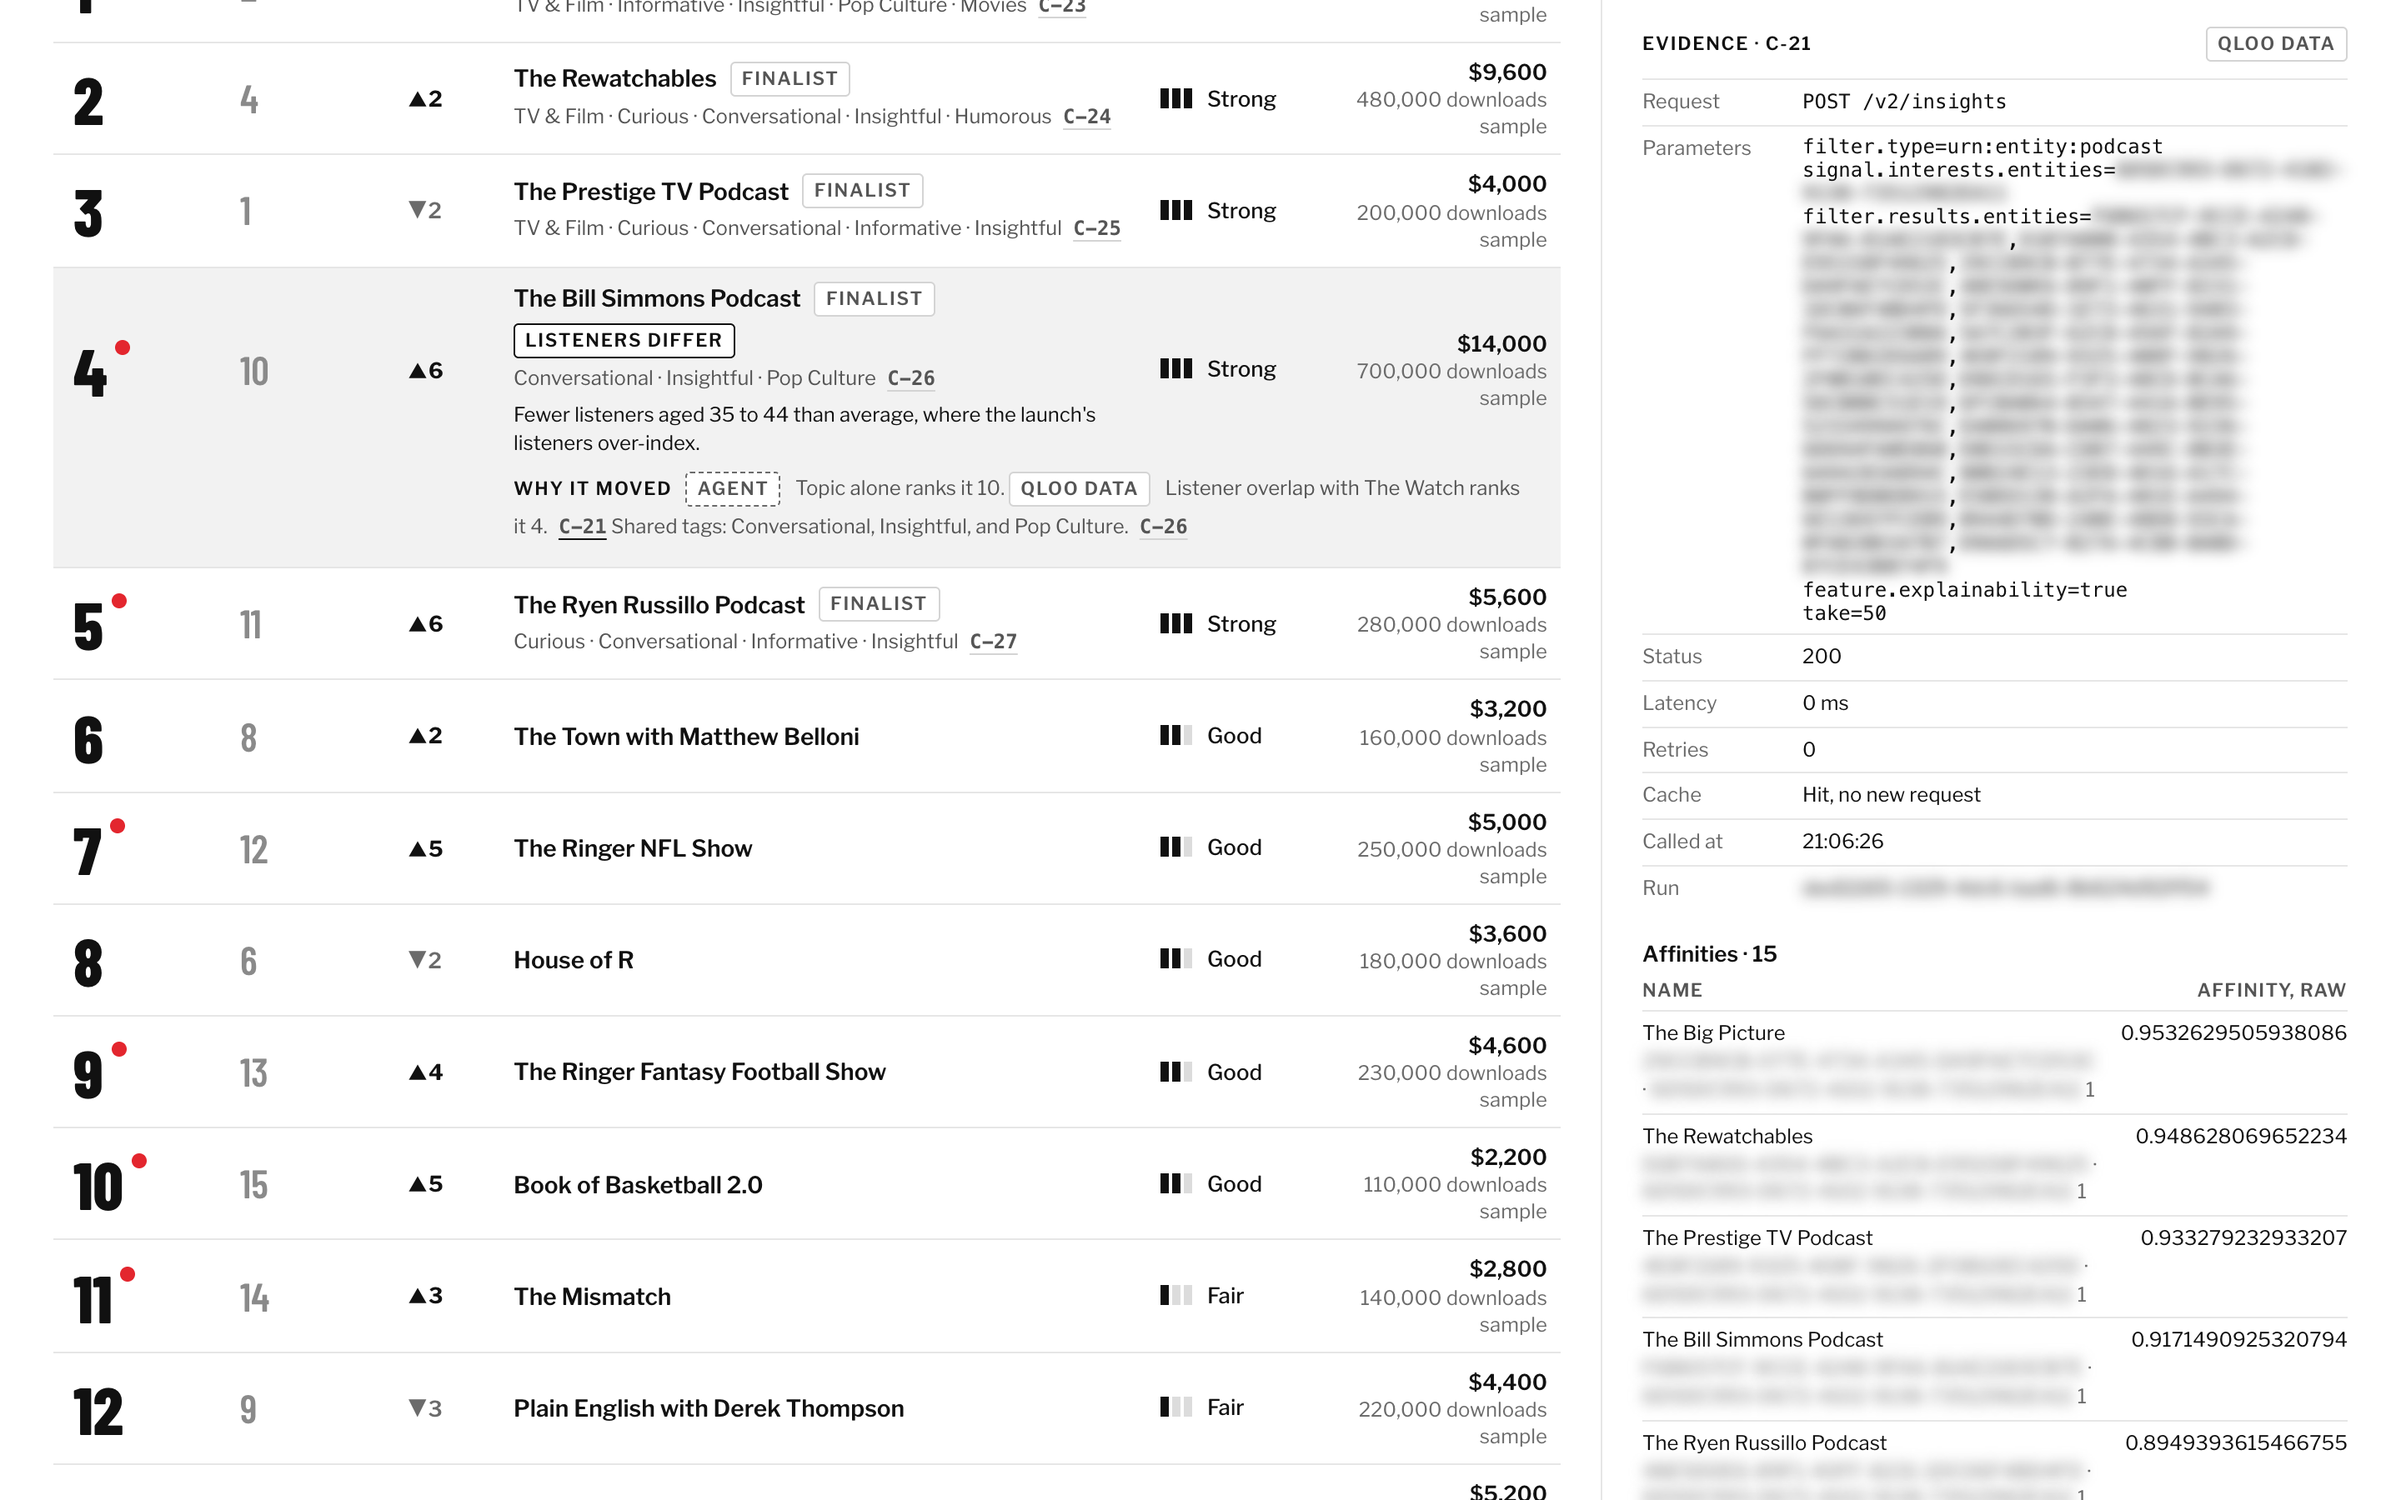
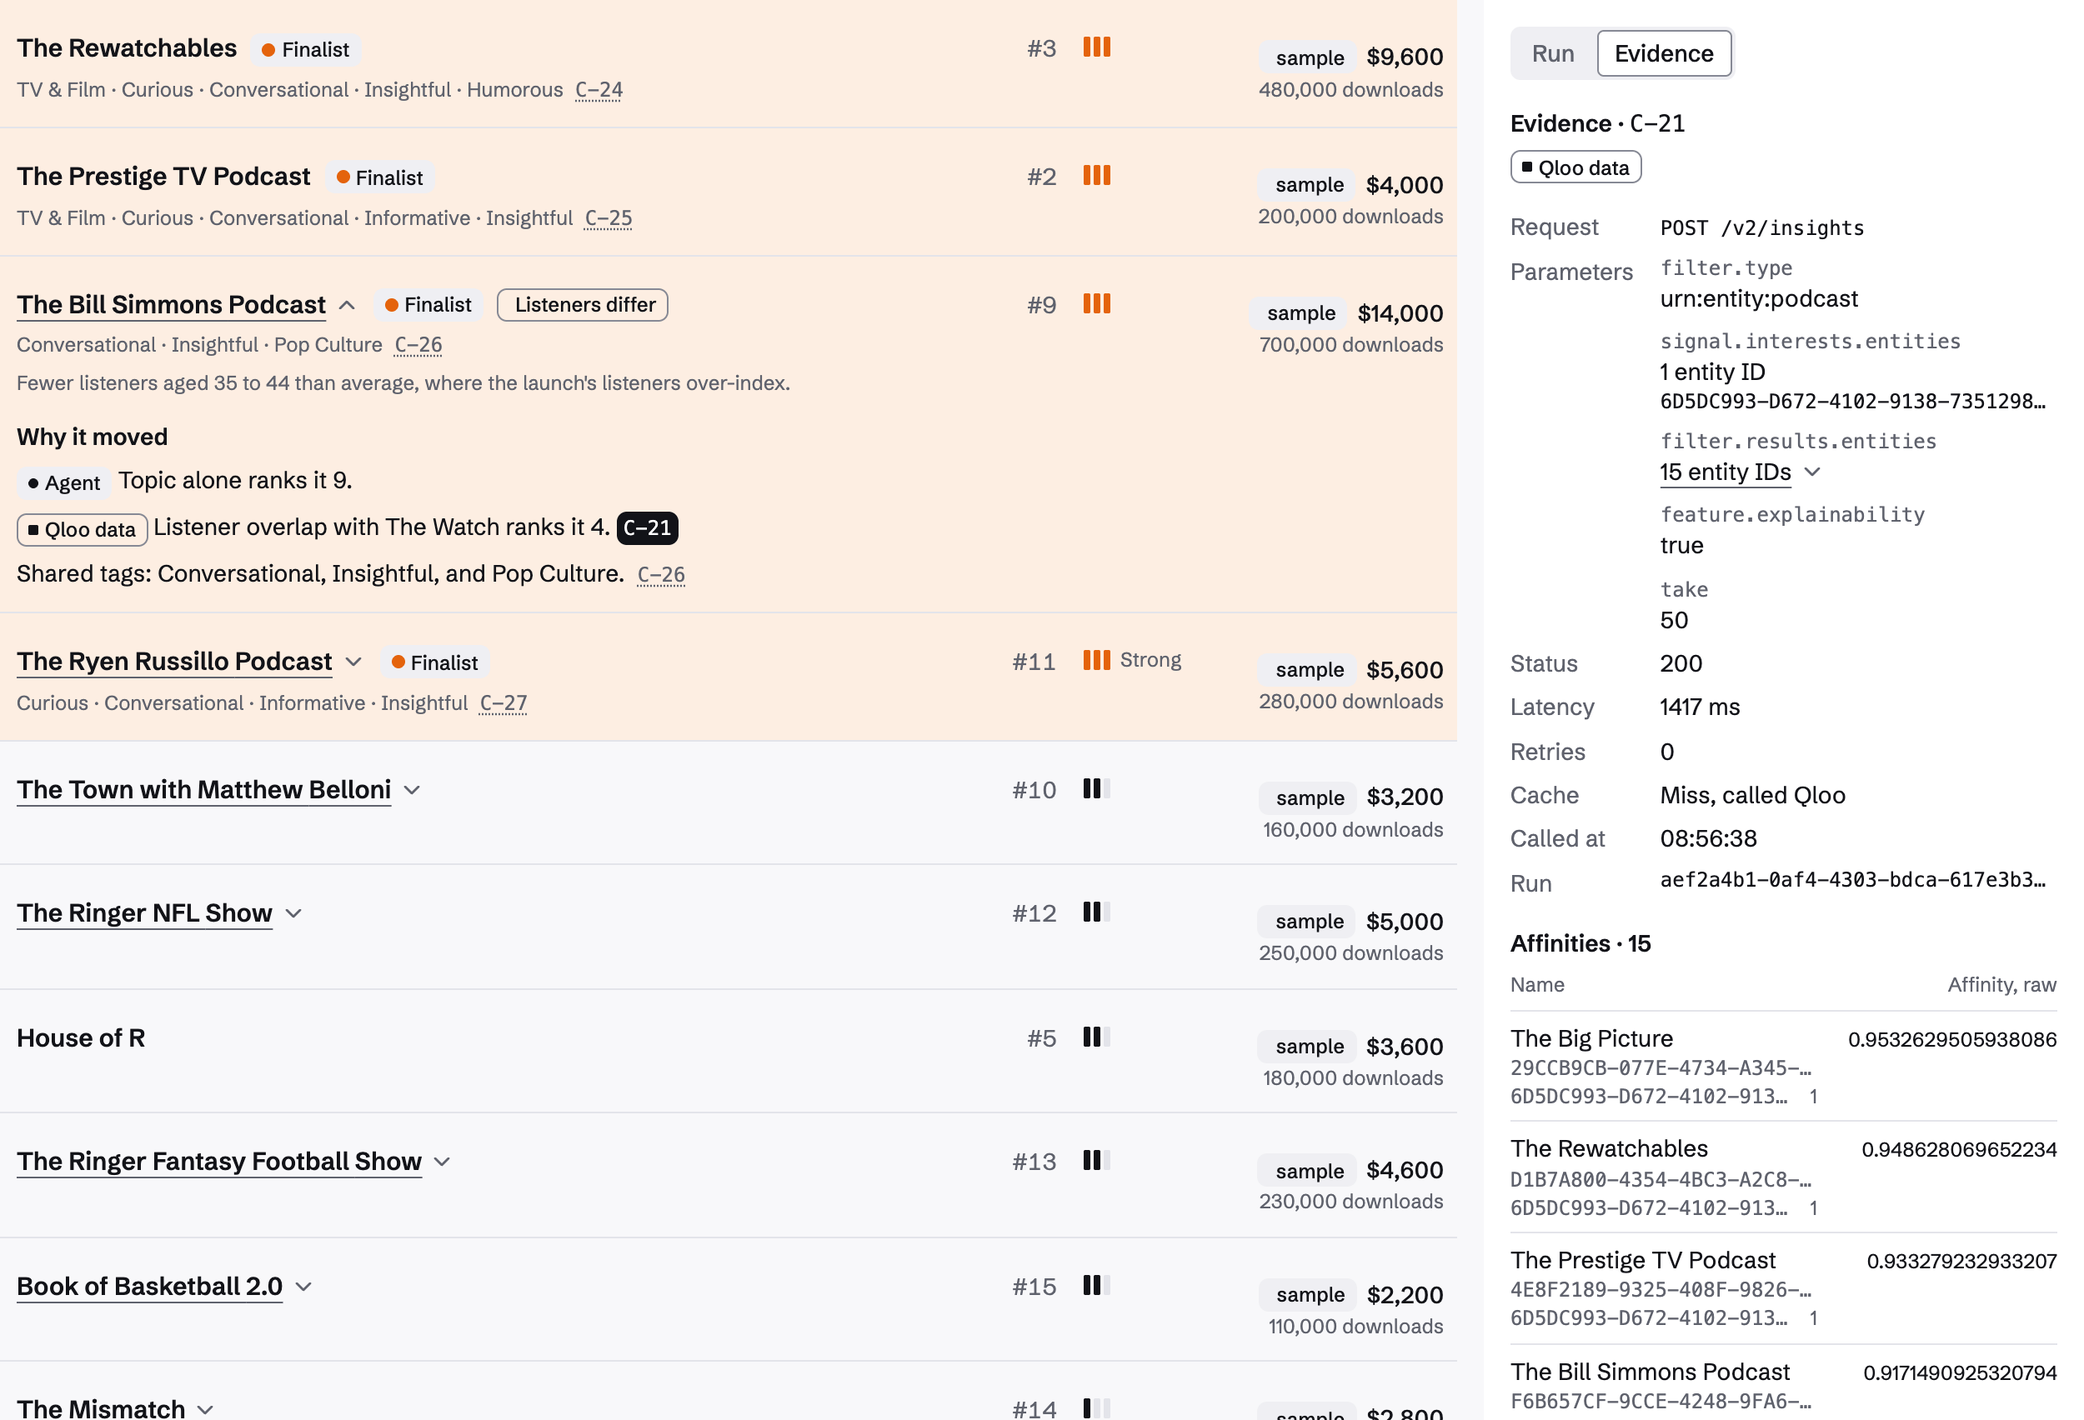
docs: re-shoot the submission's images
The six screenshots SUBMISSION.md links are re-shot from the redesigned
demo at 1440x900, light, in the same states (the chart with a climber's
why line, the open question, the ranking call's evidence, the approved
plan, the inbox's TV shows, the replies with one approved), framed on
their subject, each under 400 KB. The design section and the topic
column's sentence describe the shipped UI instead of the weekly chart,
its red bullets and the rail.

Part of #249

diff --git a/docs/SUBMISSION.md b/docs/SUBMISSION.md
@@ -27,7 +27,7 @@ Contents:
 - **Elevator pitch:** An agent that tells a podcast network which of its own shows should promote a launch, and which pitched guests its listeners want, by ranking the network's own lists in Qloo.
 - **Try it out:** <https://crossfeed.m1kuorg.workers.dev>, whose first button opens the sample network at <https://crossfeed.m1kuorg.workers.dev/demo>, and <https://github.com/m1kuorg/qloo>
 - **Built with:** qloo, claude, anthropic, cloudflare-workers, durable-objects, cloudflare-agents, cloudflare-d1, hono, react, typescript, vite, vitest, webauthn, openapi, mcp
-- **Video and images:** the video is `crossfeed-demo.mp4`, 2 minutes 50 seconds with captions and no voice, on the draft release `submission`, which waits for approval in [#63](https://github.com/m1kuorg/qloo/issues/63). The screenshots are from the same run on the live demo, on sample data:
+- **Video and images:** the video is `crossfeed-demo.mp4`, 2 minutes 50 seconds with captions and no voice, on the draft release `submission`, which waits for approval in [#63](https://github.com/m1kuorg/qloo/issues/63). The screenshots are from one run on the sample network, on sample data:
   - [The chart, with a climber and its "why it moved" line](https://github.com/m1kuorg/qloo/blob/main/docs/images/chart.png)
   - [The agent's open question](https://github.com/m1kuorg/qloo/blob/main/docs/images/question.png)
   - [The evidence for the ranking call](https://github.com/m1kuorg/qloo/blob/main/docs/images/evidence.png)
@@ -44,7 +44,7 @@ Crossfeed is an agent for a podcast network, with two jobs:
 
 Every promo slot is an ad the network didn't sell, yet launch plans are drawn up by topic: the new true-crime show goes on the other true-crime shows.
 
-Without Qloo, an agent can only plan by topic, so Crossfeed runs that plan as its control. Claude Haiku 5.5 ranks the roster from show names and descriptions alone, with no Qloo input. The fit chart shows that rank as "last week" beside Qloo's as "this week".
+Without Qloo, an agent can only plan by topic, so Crossfeed runs that plan as its control. Claude Haiku 5.5 ranks the roster from show names and descriptions alone, with no Qloo input. The fit chart shows that rank in its Topic column beside Qloo's, and its lens re-orders the roster between the two, "By topic" and "By who listens".
 
 The live demo opens on a sample network built from The Ringer's public show names. Its sample launch is The Watch, whose description covers the week's TV, movies, and music. Across three fresh sessions ([live check]):
 
@@ -133,20 +133,20 @@ The guest flow runs the same way ([live check]):
 
 ## Design
 
-A judge opens the URL on a one-screen landing page: an illustrative chart of made-up shows, labelled as an illustration, with what Crossfeed never does and the ways in. Its first button opens the sample network with no sign-in, on a working screen, not a chat:
+A judge opens the URL on a type-led landing page whose one live thing is the re-rank: a made-up roster, labelled as an illustration, that switches between "By topic" and "By who listens", its shows travelling to their new places. True-size fragments of the app show a run, then what Crossfeed never does and the ways in. Its first button opens the sample network with no sign-in, in the signed-in app's shell, on a working screen, not a chat:
 
 - **Sample data, labelled:** the network opens ready, with a notice that Crossfeed isn't affiliated with The Ringer. Every download, status, description, and CPM figure is labelled "sample" until the visitor edits it.
-- **A weekly chart:** the fit chart reads like a music chart:
-  - "This week" is the fit rank, and "last week" is the topic rank.
-  - A red bullet marks a show that climbed three or more places.
+- **The re-rank:** the fit chart leads with the roster ranked by listener overlap:
+  - Its Topic column is each show's rank in the topic-only plan, and its Move column the difference, marked ▲ in signal orange for a show that climbed three or more places.
+  - Its lens switches the rows between "By who listens" and "By topic", each row travelling to its new place.
   - Selecting a climber opens its "why it moved" line, which cites the ranking and the compare.
 - **Rank and band, not decimals:** Qloo normalizes affinity per query, so the chart shows Strong, Good, or Fair by thirds of the ranking. Raw scores stay in the evidence.
 - **Data and agent kept apart:** Qloo results are labelled "Qloo data", and the agent's text "Agent", wherever they appear.
-- **Slot value beside fit:** each charted show's slot value, its downloads per episode × CPM ÷ 1,000, has its own column, labelled "sample" while its figures are. It comes from the same formula that prices the insertion order, so the two never disagree. On a narrow chart, it moves into the show's cell.
-- **A rail beside the chart:** the agent's open question sits at its top, as a form. Under it come the guide through the sample launch, the selected show, the evidence for any call, the insertion order with its totals, and the progress notes with the agent's closing line. In one column, the question comes before the chart, and the roster follows the rail.
+- **Slot value beside fit:** each charted show's slot value, its downloads per episode × CPM ÷ 1,000, has its own column, labelled "sample" while its figures are. It comes from the same formula that prices the insertion order, so the two never disagree. On a phone, each row folds to two lines and the slot value moves to the second.
+- **A canvas and an inspector:** the page reads in one column: the on-air readout, which says what the run is doing, the guide through the sample launch, the agent's open question as a card, the chart, the plan with its totals, and the roster. Beside it from 1360px, or in a sheet on smaller screens, the inspector's tabs hold the progress notes with the agent's closing line, the evidence for any call, and the selected show.
 - **Honest states:** loading, slow, failed, missed, not scored, and replayed each have their own wording. A Qloo call still waiting after 8 seconds is named as slow ([wrangler.jsonc]).
 - **The booker's inbox:** each pitch shows its guest, the public work, and the work's Qloo match. Pitched works are ranked in one list per type. Every pitch gets a drafted reply under Book, Later, or Decline. The booker approves, edits, or discards each reply, then copies it to send.
-- **The same world, signed in:** the product's dashboard, roster, settings, and account pages keep the chart's tables under a black rule and its hairline modules, with no KPI tiles, cards, or shadows, and one black button for each page's decision ([DESIGN.md]).
+- **The same world, signed in:** the product's pages share the demo's icon rail and top bar, with the network switcher. The dashboard groups launches by who's blocked, the roster and the inbox reuse the chart's rows, settings are labelled sections beside their help, and every destructive action confirms in one dialog. There are no KPI tiles, decorative icons, or shadows at rest, one ink button for each page's decision, and signal orange only for what the agent puts forward ([DESIGN.md]).
 
 [DESIGN.md]: https://github.com/m1kuorg/qloo/blob/main/docs/DESIGN.md
 
